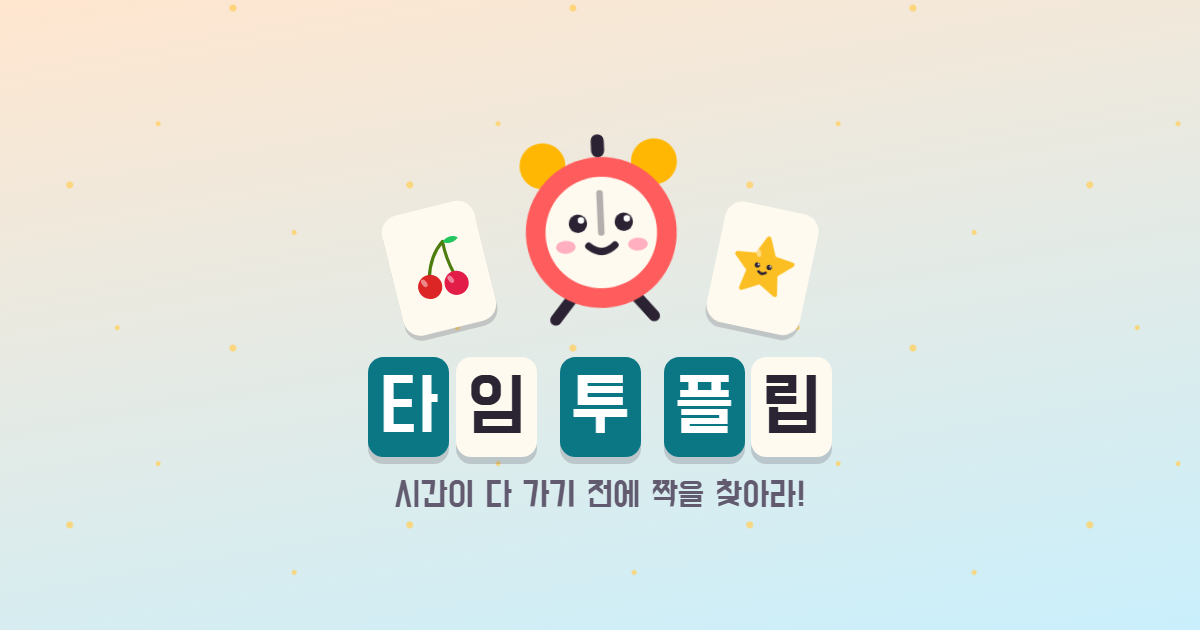
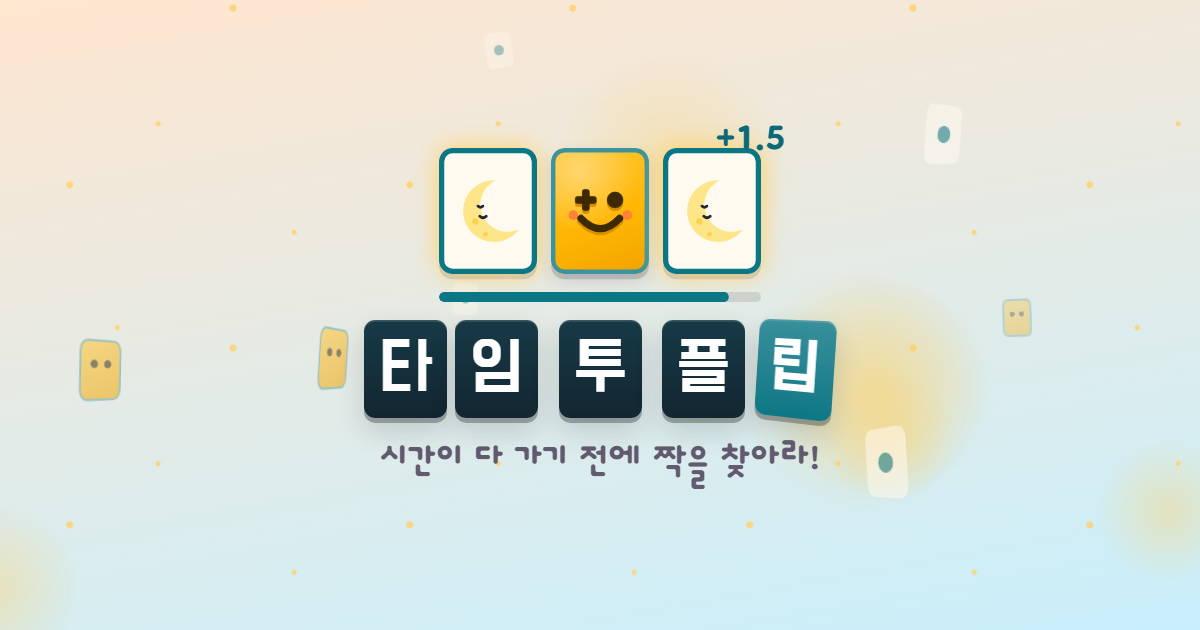
타임 투 플립 로고 새로: 카드 세 장 시연·진한 글자 카드 제목, 앵두·별 장식 카드 뺌(timetoflip v0.3.0)
- 시작 화면: 마스코트·앵두·별 대신 실제 게임 카드 세 장 시연(뒤집기 → 틀림 → 짝 +1.5 → 시간 막대 차오름, 7초 반복)
- 제목: 같은 모양의 진한 글자 카드(Do Hyeon), 마지막 글자만 강조색으로 뒤집히는 중, 누르면 한 바퀴 뒤집힘
- 동작 줄이기: 시연은 짝 맞춘 장면에 멈춤
- 아이콘(favicon·홈 화면 아이콘)·링크 미리보기 그림도 같은 모양으로(og-image ?v=2)

diff --git a/games/timetoflip/src/styles.css b/games/timetoflip/src/styles.css
@@ -311,41 +311,117 @@ button {
 
 /* ---------- 시작 화면 ---------- */
 
+/* 로고 위 시연: 실제 게임 카드(.card .inner .side) 세 장이 7초마다 한 번
+ * 뒤집기 → 틀림(빨간 테두리) → 짝(강조 테두리·+1.5) → 시간 막대 차오름 → 다시 엎기를 보여 준다 */
 .hero {
-  position: relative;
-  height: 104px;
+  --cw: 46px;
+  --ch: 60px;
   display: flex;
-  align-items: flex-end;
-  justify-content: center;
-  gap: 4px;
+  flex-direction: column;
+  align-items: center;
+  gap: 10px;
 }
-.hero-card {
-  width: 54px;
-  height: 70px;
-  border-radius: 10px;
-  background: var(--card-front);
-  display: grid;
-  place-items: center;
-  box-shadow: 0 3px 0 var(--depth);
+.demo {
+  position: relative;
+  display: flex;
+  gap: 8px;
 }
-.hero-card svg {
-  width: 82%;
+.demo-card {
+  display: block;
+  pointer-events: none;
 }
-.hero-card.c1 {
-  transform: rotate(-14deg) translateY(-6px);
+.demo .inner {
+  transition: none;
 }
-.hero-card.c2 {
-  transform: rotate(12deg) translateY(-6px);
+.demo .d1 .inner {
+  animation: demo-a 7s ease-in-out infinite;
+}
+.demo .d2 .inner {
+  animation: demo-b 7s ease-in-out infinite;
+}
+.demo .d3 .inner {
+  animation: demo-c 7s ease-in-out infinite;
+}
+@keyframes demo-a {
+  0%, 8% { transform: rotateY(0); }
+  12%, 57% { transform: rotateY(180deg) scale(1); }
+  61% { transform: rotateY(180deg) scale(1.12); }
+  66%, 76% { transform: rotateY(180deg) scale(1); }
+  82%, 100% { transform: rotateY(0); }
+}
+@keyframes demo-b {
+  0%, 20% { transform: rotateY(0); }
+  24%, 38% { transform: rotateY(180deg); }
+  31% { transform: rotateY(180deg) translateX(3px); }
+  33% { transform: rotateY(180deg) translateX(-3px); }
+  42%, 100% { transform: rotateY(0); }
+}
+@keyframes demo-c {
+  0%, 44% { transform: rotateY(0); }
+  48%, 57% { transform: rotateY(180deg) scale(1); }
+  61% { transform: rotateY(180deg) scale(1.12); }
+  66%, 76% { transform: rotateY(180deg) scale(1); }
+  82%, 100% { transform: rotateY(0); }
+}
+.demo .d2 .front {
+  animation: demo-wrong 7s infinite;
+}
+.demo .d1 .front,
+.demo .d3 .front {
+  animation: demo-match 7s infinite;
+}
+@keyframes demo-wrong {
+  0%, 27%, 39%, 100% { box-shadow: 0 3px 0 var(--depth); }
+  29%, 37% { box-shadow: inset 0 0 0 3px var(--danger), 0 3px 0 var(--depth); }
+}
+@keyframes demo-match {
+  0%, 57%, 78%, 100% { box-shadow: 0 3px 0 var(--depth); }
+  60%, 74% { box-shadow: inset 0 0 0 3px var(--accent), 0 0 14px var(--glow), 0 3px 0 var(--depth); }
+}
+.demo-pop {
+  position: absolute;
+  top: -16px;
+  right: -14px;
+  font-family: 'Dongle', 'DoHyeon', system-ui, sans-serif;
+  font-weight: 400;
+  font-size: 22px;
+  line-height: 1;
+  color: var(--accent-ink);
+  opacity: 0;
+  animation: demo-pop 7s infinite;
+}
+@keyframes demo-pop {
+  0%, 58% { opacity: 0; transform: translateY(6px) scale(0.8); }
+  62% { opacity: 1; transform: none; }
+  72% { opacity: 1; transform: translateY(-6px); }
+  78%, 100% { opacity: 0; transform: translateY(-10px); }
+}
+.demo-timer {
+  width: calc(var(--cw, 46px) * 3 + 16px);
+  height: 6px;
+  border-radius: 999px;
+  background: color-mix(in srgb, var(--ink) 12%, transparent);
+  overflow: hidden;
+}
+.demo-timer i {
+  display: block;
+  height: 100%;
+  border-radius: inherit;
+  background: var(--accent);
+  transform-origin: left;
+  animation: demo-time 7s linear infinite;
+}
+@keyframes demo-time {
+  0% { transform: scaleX(0.84); }
+  58% { transform: scaleX(0.5); }
+  62% { transform: scaleX(0.92); }
+  66% { transform: scaleX(0.9); }
+  100% { transform: scaleX(0.84); }
 }
 .mascot {
   display: block;
   width: 44px;
   height: 44px;
-}
-.mascot.big {
-  width: 96px;
-  height: 96px;
-  animation: bob 2.4s ease-in-out infinite;
 }
 .mascot-svg {
   width: 100%;
@@ -356,42 +432,40 @@ button {
   opacity: 0;
   transition: opacity 0.3s;
 }
-@keyframes bob {
-  50% {
-    transform: translateY(-6px) rotate(-3deg);
-  }
-}
 
+/* 제목: 같은 모양의 진한 카드에 한 글자씩. 마지막 글자만 강조색으로, 뒤집히는 중처럼 살짝 기울인다. 누르면 한 바퀴 뒤집힌다 */
 h1 {
   margin: 0;
   font-weight: 400;
-  font-size: clamp(30px, 9.4vw, 44px);
+  font-size: clamp(26px, 8.2vw, 38px);
   line-height: 1;
   text-align: center;
 }
 h1 .word {
   display: inline-flex;
-  gap: 4px;
+  gap: 0.12em;
   white-space: nowrap;
 }
 .tc {
   display: inline-block;
   perspective: 300px;
+  cursor: pointer;
 }
 .tc-in {
   display: grid;
   place-items: center;
-  min-width: 1.05em;
-  height: 1.3em;
-  padding: 0 0.08em;
-  border-radius: 0.2em;
-  background: var(--card-front);
-  color: #2a2433;
-  box-shadow: 0 0.09em 0 var(--depth);
-}
-.tc:nth-child(odd) .tc-in {
-  background: var(--accent);
+  min-width: 1.18em;
+  height: 1.4em;
+  padding: 0 0.1em;
+  border-radius: 0.16em;
+  font-family: 'DoHyeon', 'Dongle', system-ui, sans-serif;
+  background: linear-gradient(180deg, color-mix(in srgb, var(--accent) 34%, #1d1b27), color-mix(in srgb, var(--accent) 20%, #14121c));
   color: #fff;
+  box-shadow: inset 0 1px 0 rgb(255 255 255 / 0.14), 0 0.07em 0 rgb(0 0 0 / 0.28), 0 0.18em 0.4em rgb(20 16 30 / 0.16);
+}
+h1 .word:last-child .tc:last-child .tc-in {
+  background: linear-gradient(180deg, color-mix(in srgb, var(--accent) 82%, #fff), var(--accent));
+  transform: rotateY(-22deg) rotateZ(4deg);
 }
 .opening .tc-in {
   animation: tc-flip 0.5s cubic-bezier(0.3, 1.5, 0.5, 1) both;
@@ -401,6 +475,14 @@ h1 .word {
   from {
     transform: rotateY(90deg) scale(0.6);
     opacity: 0;
+  }
+}
+.tc.spin .tc-in {
+  animation: tc-spin 0.5s cubic-bezier(0.3, 1.3, 0.5, 1);
+}
+@keyframes tc-spin {
+  from {
+    transform: rotateY(-360deg);
   }
 }
 .opening .hero {
@@ -1543,12 +1625,12 @@ h1 .word {
     flex-direction: row;
     gap: 48px;
   }
-  .mascot.big {
-    width: 120px;
-    height: 120px;
-  }
   .hero {
-    height: 130px;
+    --cw: 56px;
+    --ch: 72px;
+  }
+  h1 {
+    font-size: 40px;
   }
   .hud-score {
     font-size: 32px;
@@ -1574,15 +1656,9 @@ h1 .word {
     gap: 8px;
   }
   .hero {
-    height: 72px;
-  }
-  .mascot.big {
-    width: 66px;
-    height: 66px;
-  }
-  .hero-card {
-    width: 40px;
-    height: 52px;
+    --cw: 32px;
+    --ch: 42px;
+    gap: 6px;
   }
   .btn.big {
     min-height: 52px;
@@ -1673,8 +1749,18 @@ h1 .word {
   }
   /* 배경은 멈춘 그림으로(애니메이션을 0초로 끝내면 카드가 화면 밖 끝자리로 가 버리므로 아예 끈다) */
   .scene *,
-  .scene {
+  .scene,
+  .demo *,
+  .demo-timer i {
     animation: none !important;
+  }
+  /* 시작 화면 시연은 짝을 맞춘 장면에 멈춰 둔다 */
+  .demo .d1 .inner,
+  .demo .d3 .inner {
+    transform: rotateY(180deg);
+  }
+  .demo-timer i {
+    transform: scaleX(0.84);
   }
 }
 

diff --git a/games/timetoflip/src/ui/screens.ts b/games/timetoflip/src/ui/screens.ts
@@ -108,6 +108,16 @@ function titleCards(title: string): string {
     .join(' ');
 }
 
+/**
+ * 시작 화면 로고 위 작은 시연: 엎어진 카드 세 장이 실제 게임처럼 뒤집힌다
+ * (첫 장 → 다른 그림이라 틀림 → 셋째 장이 짝 → 시간 막대가 다시 차오름). 애니메이션은 CSS(.demo)
+ */
+function heroDemo(): string {
+  const card = (n: number, face: FaceId) =>
+    `<span class="card demo-card d${n}"><span class="inner"><span class="side back">${CARD_BACK}</span><span class="side front">${faceSvg(face)}</span></span></span>`;
+  return `<div class="demo">${card(1, 'moon')}${card(2, 'sun')}${card(3, 'moon')}<b class="demo-pop">+1.5</b></div><div class="demo-timer"><i></i></div>`;
+}
+
 export function startScreen(opts: StartOptions): HTMLElement {
   const { save } = opts;
   const dailyBest = save.daily?.date === opts.today ? save.daily.best : 0;
@@ -127,11 +137,7 @@ export function startScreen(opts: StartOptions): HTMLElement {
         </div>
       </nav>
       <div class="col main-col">
-        <div class="hero" aria-hidden="true">
-          <span class="hero-card c1">${faceSvg('cherry')}</span>
-          <span class="mascot big">${MASCOT}</span>
-          <span class="hero-card c2">${faceSvg('star')}</span>
-        </div>
+        <div class="hero" aria-hidden="true">${heroDemo()}</div>
         <h1 aria-label="${t('app.title')}"><span aria-hidden="true">${titleCards(t('app.title'))}</span></h1>
         <p class="tagline">${t('app.tagline')}</p>
       </div>
@@ -155,6 +161,14 @@ export function startScreen(opts: StartOptions): HTMLElement {
     el.addEventListener('pointerdown', () => el.classList.remove('opening'), { once: true });
   }
 
+  // 제목 글자 카드는 눌러서 뒤집어 볼 수 있다(장식, 점수 없음)
+  el.querySelectorAll<HTMLElement>('.tc').forEach((tc) =>
+    tc.addEventListener('pointerdown', () => {
+      tc.classList.remove('spin');
+      void tc.offsetWidth;
+      tc.classList.add('spin');
+    }),
+  );
   el.querySelectorAll<HTMLButtonElement>('[data-mode]').forEach((b) => b.addEventListener('click', () => opts.onPlay(b.dataset.mode as Mode)));
   el.querySelector('.top-lang')!.addEventListener('click', () => opts.onLang(otherLang));
   el.querySelector('[data-dex]')!.addEventListener('click', () => openDex(el, save));

diff --git a/games/timetoflip/index.html b/games/timetoflip/index.html
@@ -15,7 +15,7 @@
     <meta property="og:title" content="타임 투 플립 ⏱" />
     <meta property="og:description" content="시간이 다 가기 전에 짝을 찾아라! 맞힐수록 시간이 늘어나는 카드 짝 맞추기" />
     <meta property="og:url" content="https://myong558.github.io/project-joypack/games/timetoflip/" />
-    <meta property="og:image" content="https://myong558.github.io/project-joypack/games/timetoflip/og-image.png" />
+    <meta property="og:image" content="https://myong558.github.io/project-joypack/games/timetoflip/og-image.png?v=2" />
     <meta property="og:image:width" content="1200" />
     <meta property="og:image:height" content="630" />
     <meta property="og:image:alt" content="타임 투 플립 게임 화면" />

diff --git a/games/timetoflip/README.md b/games/timetoflip/README.md
@@ -8,7 +8,7 @@
 - 모드: 클래식(끝없이 이어지는 판) / 오늘의 챌린지(날짜 시드, 모두 같은 카드 배치)
 - 랭킹: `games/timetoflip/rankings/classic`, `daily-YYYY-MM-DD`(순위표 1개 = 문서 1개, `{ name, score, stage, date }`). 점수 높은 순, 동점은 먼저 올린 기록
 - 손맛: 아래 "손맛" 표
-- 정체성: 째깍째깍 경쾌한 시간 퍼즐 · 글꼴 Do Hyeon(본문·숫자) + Dongle Bold(제목·팝업, Do Hyeon 에 없는 기호도) + Jua(공용 위 메뉴 언어 단추만) · 청록 `#0b7785`(스킨마다 바뀜) · 자명종 마스코트 째깍이 + 조이팩 로고 얼굴 카드 뒷면 · 배경: 먼 빛망울 + 뒤집히며 떠오르는 카드 층(게임 중 흐리게) · 시간대 스킨(아침·한낮·노을·밤) · 마림바 같은 사인파, 콤보마다 음이 오름 · 3D 뒤집기·콤보 음계·시간 팝업
+- 정체성: 째깍째깍 경쾌한 시간 퍼즐 · 글꼴 Do Hyeon(본문·숫자) + Dongle Bold(제목·팝업, Do Hyeon 에 없는 기호도) + Jua(공용 위 메뉴 언어 단추만) · 청록 `#0b7785`(스킨마다 바뀜) · 자명종 마스코트 째깍이(게임 중 시간 막대·결과) + 조이팩 로고 얼굴 카드 뒷면 · 로고: 진한 글자 카드 제목(마지막 글자만 강조색으로 뒤집히는 중, 누르면 한 바퀴 뒤집힘) 위에 카드 세 장 시연(뒤집기 → 틀림 → 짝 → 시간 막대 차오름, 7초 반복) · 아이콘: 조이팩 얼굴 뒷면 + 달 앞면 카드와 시간 막대 · 배경: 먼 빛망울 + 뒤집히며 떠오르는 카드 층(게임 중 흐리게) · 시간대 스킨(아침·한낮·노을·밤) · 마림바 같은 사인파, 콤보마다 음이 오름 · 3D 뒤집기·콤보 음계·시간 팝업
 - 상업 기준(10장):
   - 이름 검색(2026-10-24, 웹 검색): "Time to Flip"과 똑같은 게임·상표는 찾지 못함. 비슷한 것: USPTO **TIMEFLIP**(시간 기록 기기·소프트웨어, 게임 아님), itch.io 플랫폼 게임 "Time Flip"·퍼즐 데모 "Time Flipper"(장르 다름). 한국어 "타임 투 플립"은 못 찾음. **출시 전에 KIPRIS·USPTO·구글 플레이·앱스토어 검색을 다시 할 것**
   - 저작물: 카드 그림 48장·특수 카드·마스코트·아이콘 모두 `src/ui/art.ts`·`public/favicon.svg` 에서 코드로 직접 그림. 소리는 Web Audio 합성. 제3자 것은 Do Hyeon·Dongle·Jua 글꼴(모두 SIL OFL 1.1, 예약 글꼴 이름 없음 → 서브셋 허용, `public/fonts/LICENSE-DoHyeon.txt`·`LICENSE-Dongle.txt`·`LICENSE-Jua.txt` 함께 배포)
